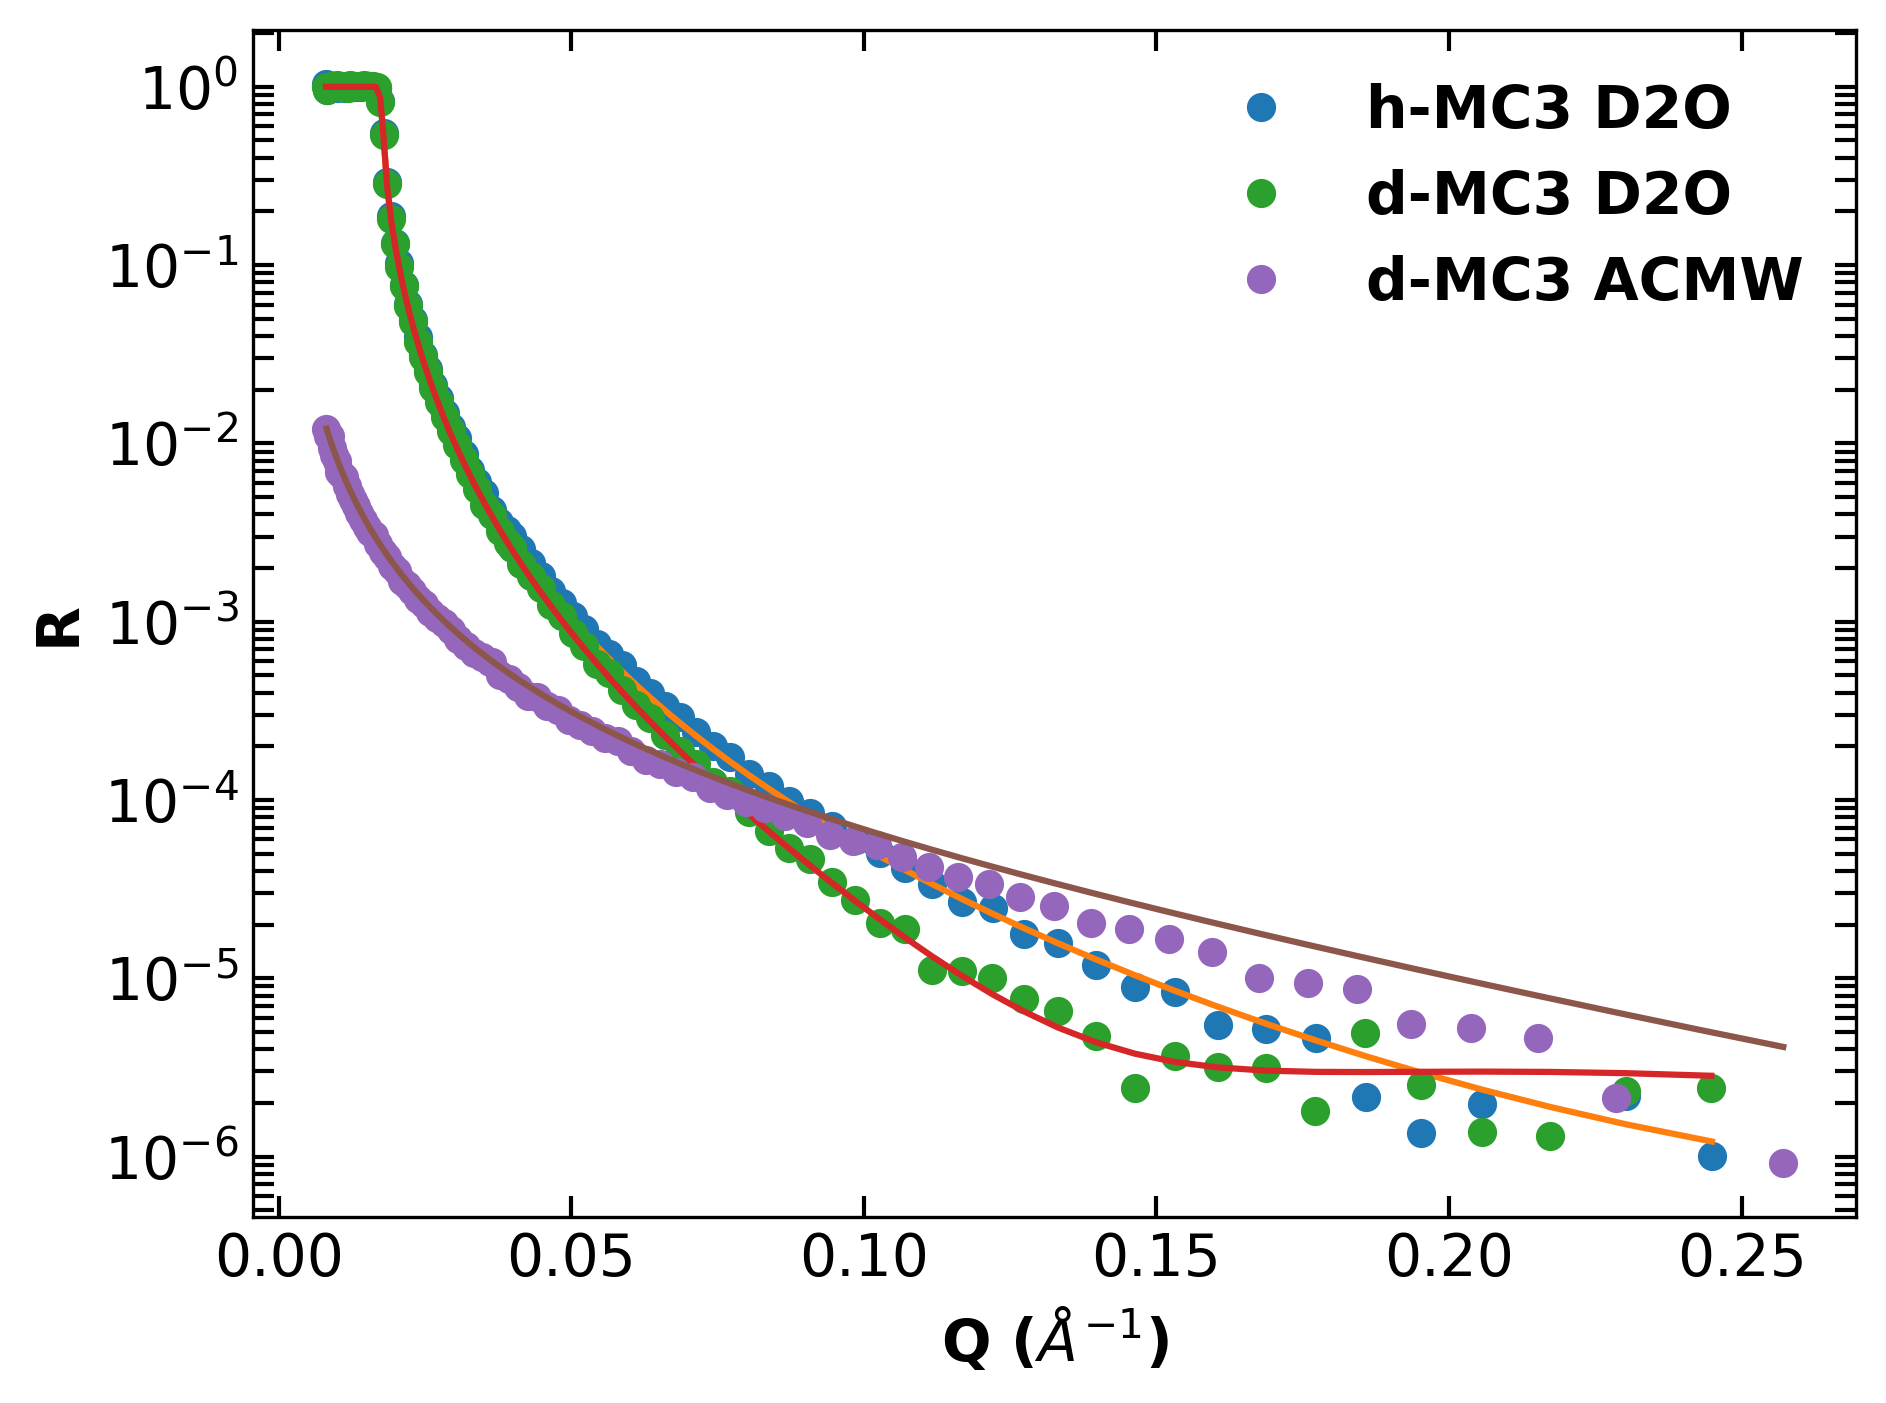
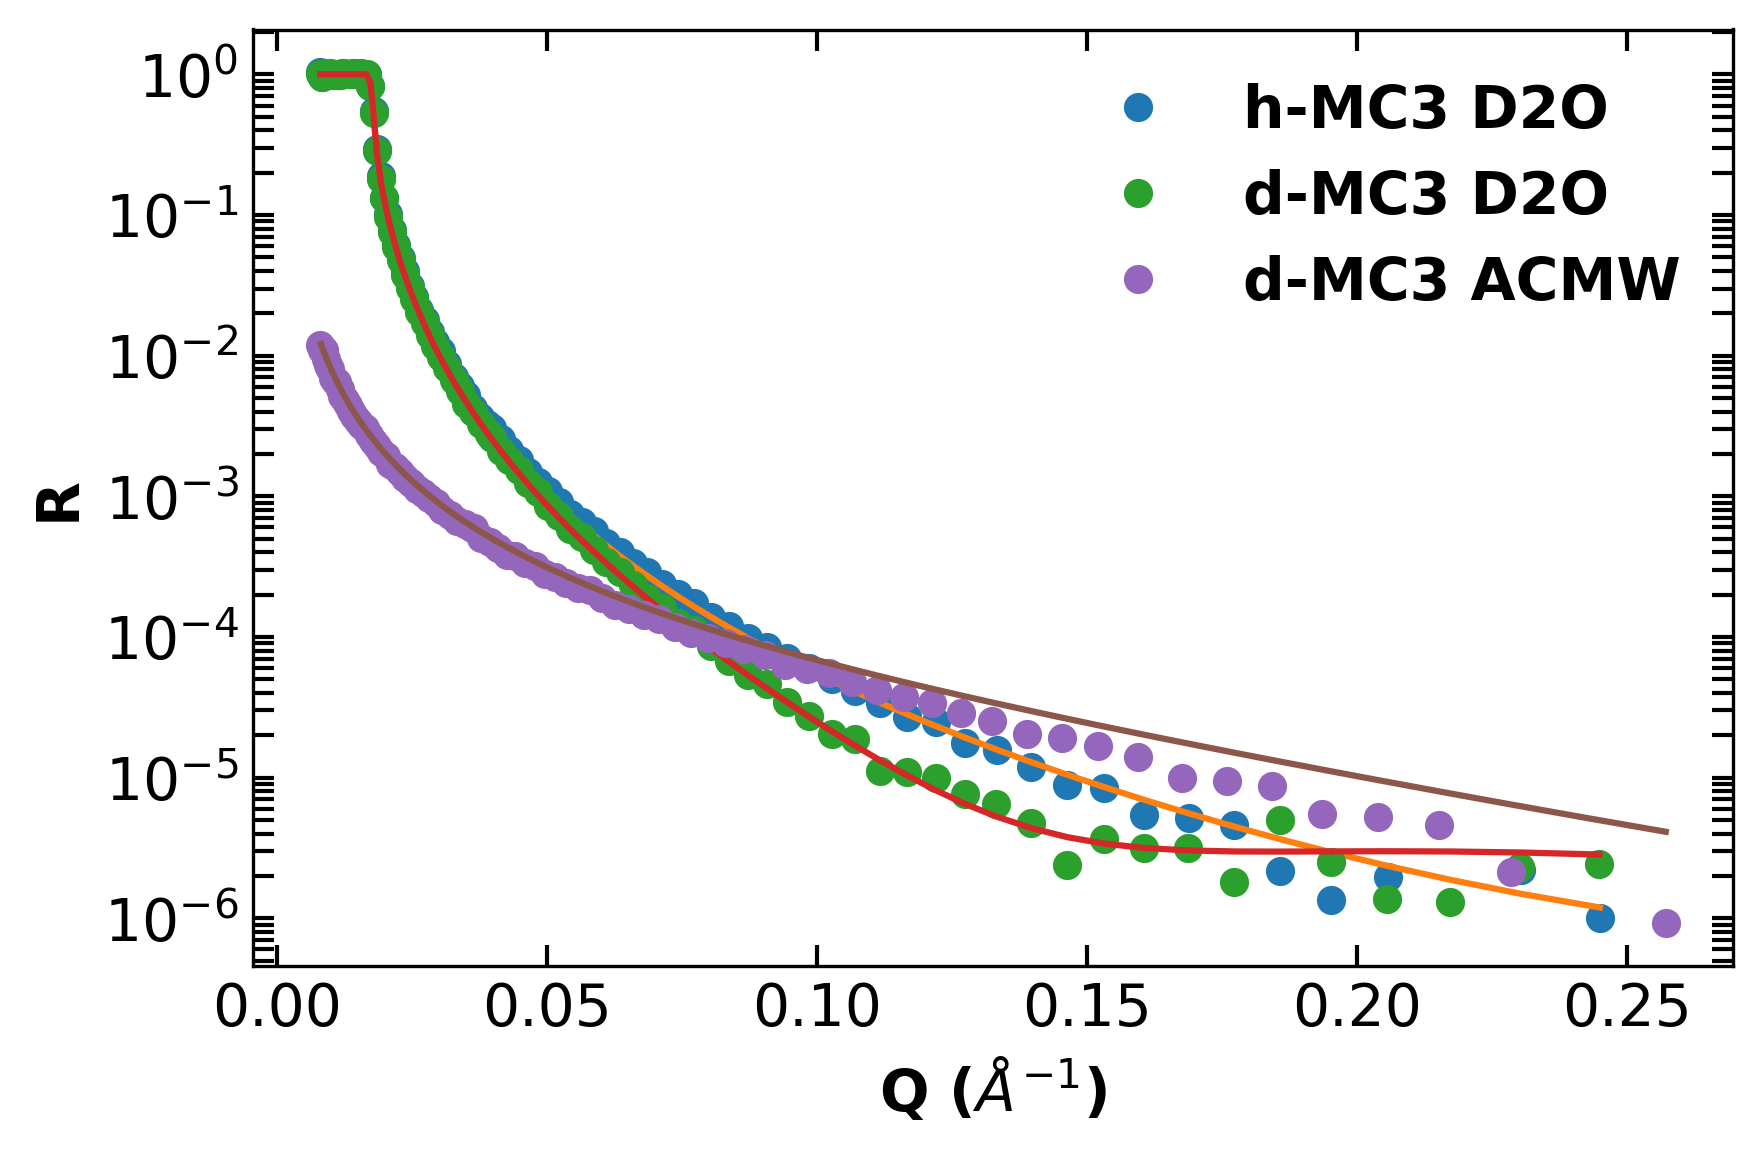
analysis

diff --git a/src/main.py b/src/main.py
@@ -84,8 +84,8 @@ def main():
     inputFiles  = ['../input/S14_excel.txt','../input/S13.txt','../input/S11_excel.txt',]
     inputLabels = ['h-MC3 D2O','d-MC3 D2O','d-MC3 ACMW',]
 
-    d2_0, d2_1, d2_step = 5, 6.5, 1
-    d1_0, d1_1, d1_step = 10, 11.5, 1
+    d2_0, d2_1, d2_step = 5, 10.5, 1
+    d1_0, d1_1, d1_step = 10, 15.5, 1
 
     # define which head group thicknesses are to be studied
     d2List = []
